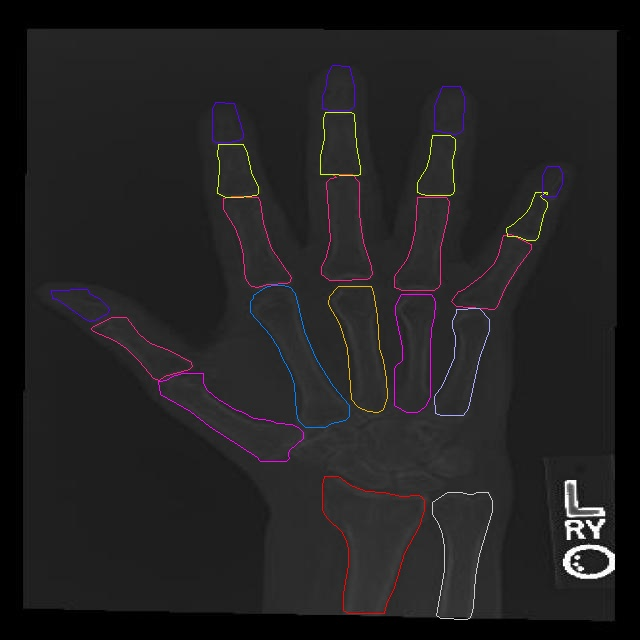
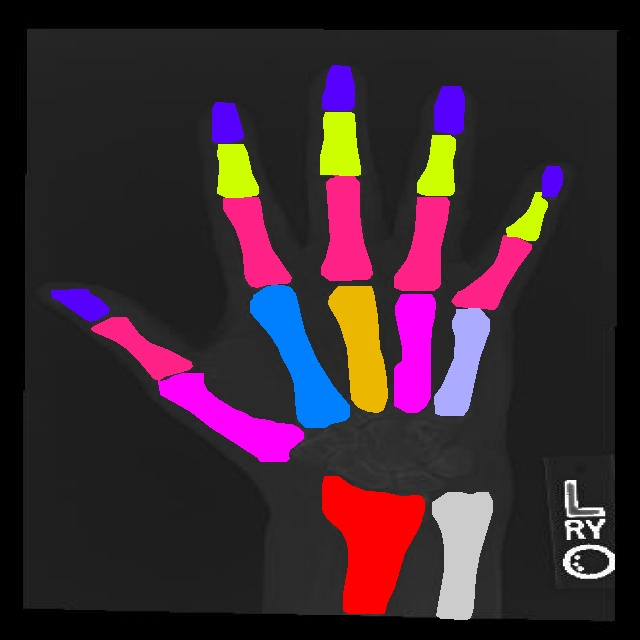
add gpt

Changed region(s): [[0.0625, 0.0938, 0.875, 0.7188], [0.5, 0.7188, 0.7812, 0.9688]]

diff --git a/main.py b/main.py
@@ -4,6 +4,11 @@ import cv2
 import numpy as np
 import roboflow
 from flask import Flask, request
+import openai
+import json
+
+openai.organization = "org-KGUkeR1rxambDb4iwt39rRQR"
+openai.api_key = "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"
 
 rf = roboflow.Roboflow(api_key='3ExsCVK8YEvuuYeNcGnS')
 
@@ -20,7 +25,23 @@ def predict(image_url):
         predictions=prediction.json()['predictions'],
         output_path='static/prediction.jpg'
     )
-    return True
+    prompt= "Give a brief diagnosis for this image based on json prediction data: "
+    j = prediction.json()
+    j['predictions'] = j['predictions'][:4]
+    prompt += json.dumps(j)
+    response = openai.Completion.create(
+      model="text-davinci-003",
+      prompt=prompt,
+      temperature=0.7,
+      max_tokens=256,
+      top_p=1,
+      frequency_penalty=0,
+      presence_penalty=0
+    )
+    print(response)
+    print(response['choices'][0]['text'])
+    res = response['choices'][0]['text']
+    return res
 
 
 def load_image(image_path):
@@ -46,12 +67,10 @@ def save_image(image, predictions, output_path):
             stroke_color = hex_to_rgb(colors[class_name][1:])
         points = [[int(p["x"]), int(p["y"])] for p in prediction["points"]]
         np_points = np.array(points, dtype=np.int32)
-        cv2.polylines(
+        cv2.fillPoly(
             image,
             [np_points],
-            isClosed=True,
-            color=stroke_color,
-            thickness=1,
+            color=stroke_color
         )
     # Write image path
     cv2.imwrite(output_path, image)
@@ -67,7 +86,7 @@ def hello_world():
     return '''
     <html>
    <body>
-      <form action = "http://localhost:6003/uploader" method = "POST" 
+      <form action = "/uploader" method = "POST" 
          enctype = "multipart/form-data">
          <input type = "file" name = "file" />
          <input type = "submit"/>
@@ -79,11 +98,12 @@ def hello_world():
 
 @app.route('/uploader', methods=['GET', 'POST'])
 def upload_file():
+    res = "prediction"
     if request.method == 'POST':
         f = request.files['file']
         f.save("./static/test.jpg")
-        predict("./static/test.jpg")
-        return '''
+        res = predict("./static/test.jpg")
+        return f'''
         <html>
         <body>
           <div style='display:flex;gap:10px;'>
@@ -94,12 +114,13 @@ def upload_file():
             <div>
               <p>Predicted Image</p>
               <img src="/prediction.jpg" alt="prediction.jpg"/>
+              <p> {res} </p>
             </div>
           </div>
         </body>
         </html>
         '''
-    return '''
+    return f'''
         <html>
         <body>
           <div style='display:flex;gap:10px;'>
@@ -110,6 +131,7 @@ def upload_file():
             <div>
               <p>Predicted Image</p>
               <img src="/prediction.jpg" alt="prediction.jpg"/>
+              <p> {res} </p>
             </div>
           </div>
         </body>
